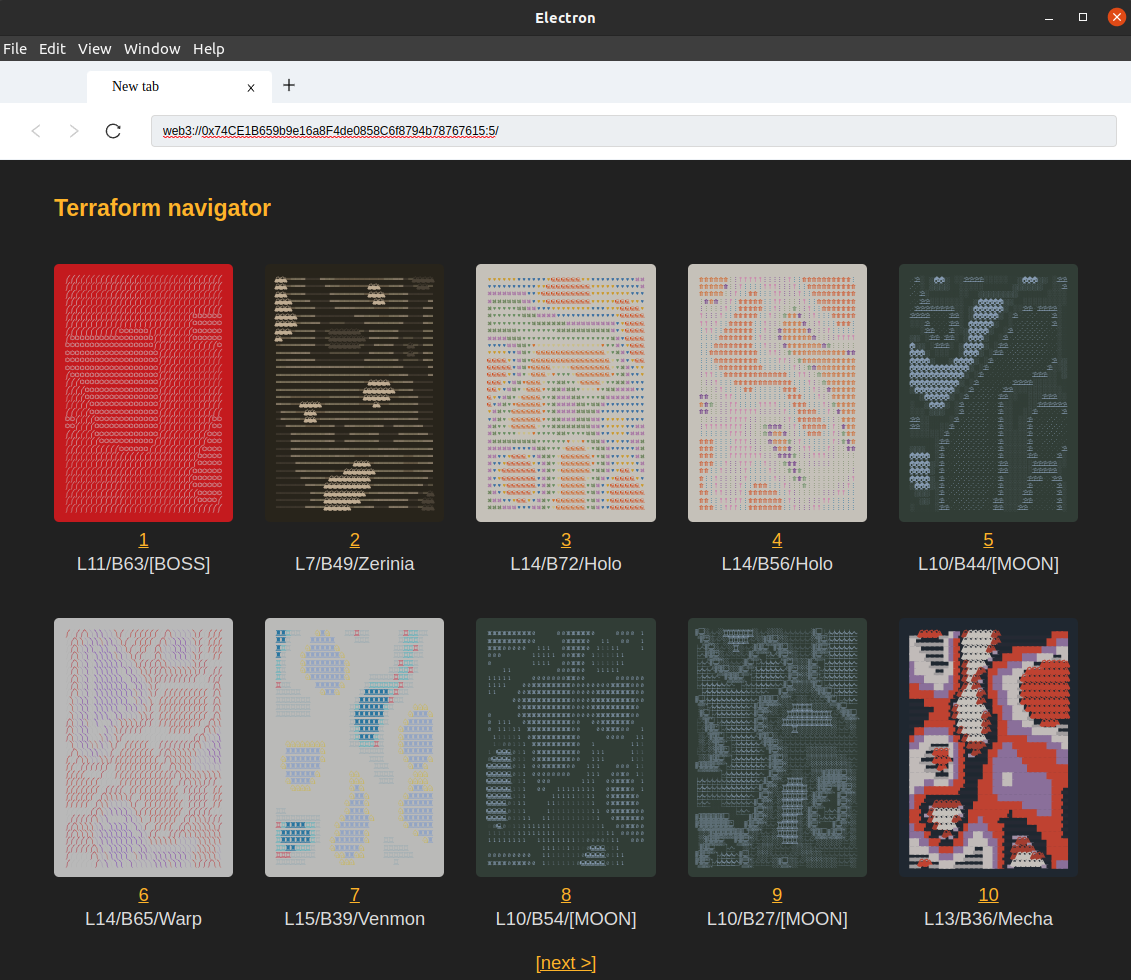
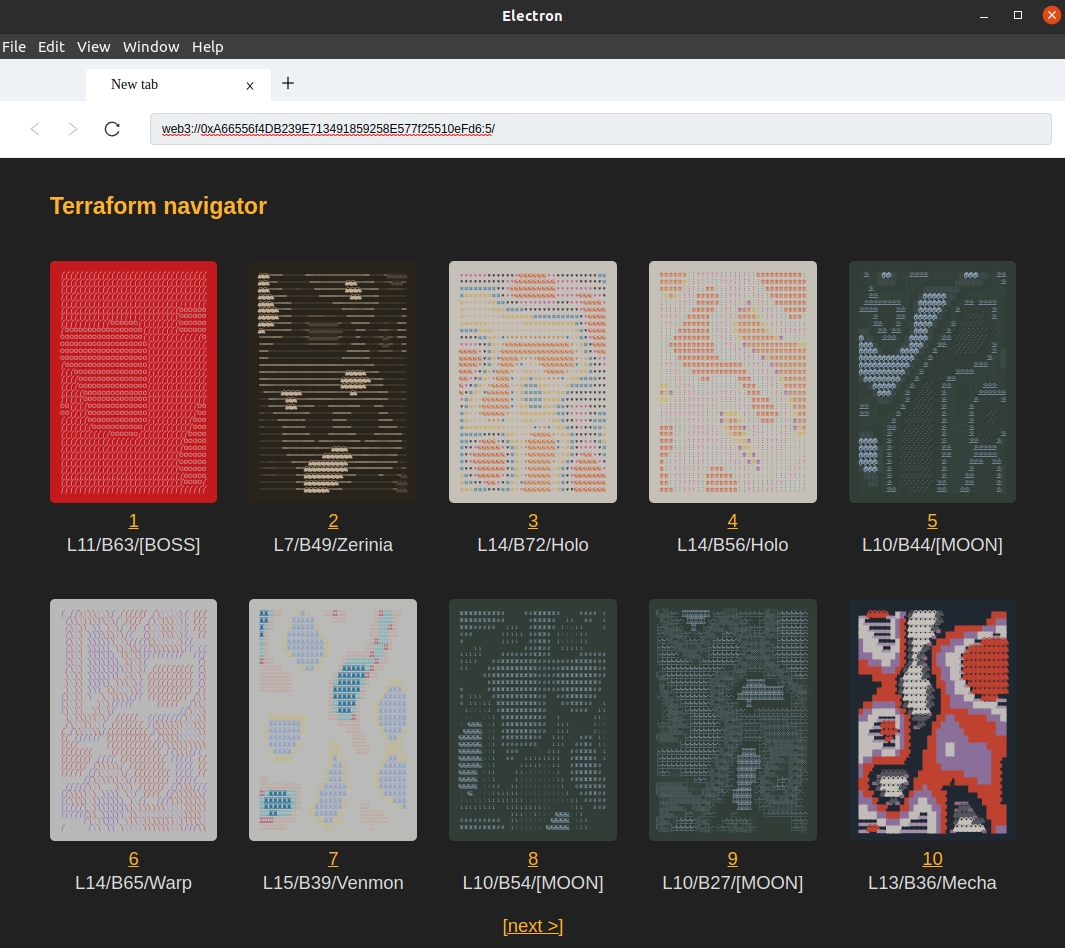
Manual mode: Fallback function now expected to send abi.encode bytes.

diff --git a/example/web3-protocol.js b/example/web3-protocol.js
@@ -227,13 +227,11 @@ const registerWeb3Protocol = (web3Chains) => {
           throw new Error("Looks like the address is not a contract.");
         }
 
-        // rawOutput = decodeAbiParameters([
-        //     { type: 'bytes' },
-        //   ],
-        //   rawOutput.data,
-        // )
-        // Temp while we clarify the need of abi encode return of the manual mode fallback method
-        rawOutput = [rawOutput.data];
+        rawOutput = decodeAbiParameters([
+            { type: 'bytes' },
+          ],
+          rawOutput.data,
+        )
 
         output = Buffer.from(rawOutput[0].substr(2), "hex").toString().replace(/\0/g, '');
       }

diff --git a/example/main.js b/example/main.js
@@ -80,7 +80,7 @@ function createWindow() {
   browser = new BrowserLikeWindow({
     controlHeight: 99,
     controlPanel: fileUrl(`${__dirname}/renderer/control.html`),
-    startPage: args._.length == 1 ? args._[0] : 'web3://0x74CE1B659b9e16a8F4de0858C6f8794b78767615:5/',
+    startPage: args._.length == 1 ? args._[0] : 'web3://0xA66556f4DB239E713491859258E577f25510eFd6:5/',
     blankTitle: 'New tab',
     debug: true, // will open controlPanel's devtools
     viewReferences: {

diff --git a/README.md b/README.md
@@ -3,9 +3,9 @@
 Browser with support of the [EIP-4804 `web3://` protocol](https://eips.ethereum.org/EIPS/eip-4804), which allow you to display the contents returned by EVM contracts from any EVM chain.
 Browser forked from the great [electron-as-browser](https://github.com/hulufei/electron-as-browser) from hulufei. Experimental!
 
-``web3://0x74CE1B659b9e16a8F4de0858C6f8794b78767615:5/``
+``web3://0xA66556f4DB239E713491859258E577f25510eFd6:5/``
 
-will load a goerli proof-of-concept "on-chain website" served by a smart contract and interacting with Terraforms (see contract on [etherscan](https://goerli.etherscan.io/address/0x74CE1B659b9e16a8F4de0858C6f8794b78767615#code))
+will load a goerli proof-of-concept "on-chain website" served by a smart contract and interacting with Terraforms (see contract on [etherscan](https://goerli.etherscan.io/address/0xA66556f4DB239E713491859258E577f25510eFd6#code))
 
 ![./screenshot2.png](./screenshot2.png)
 
